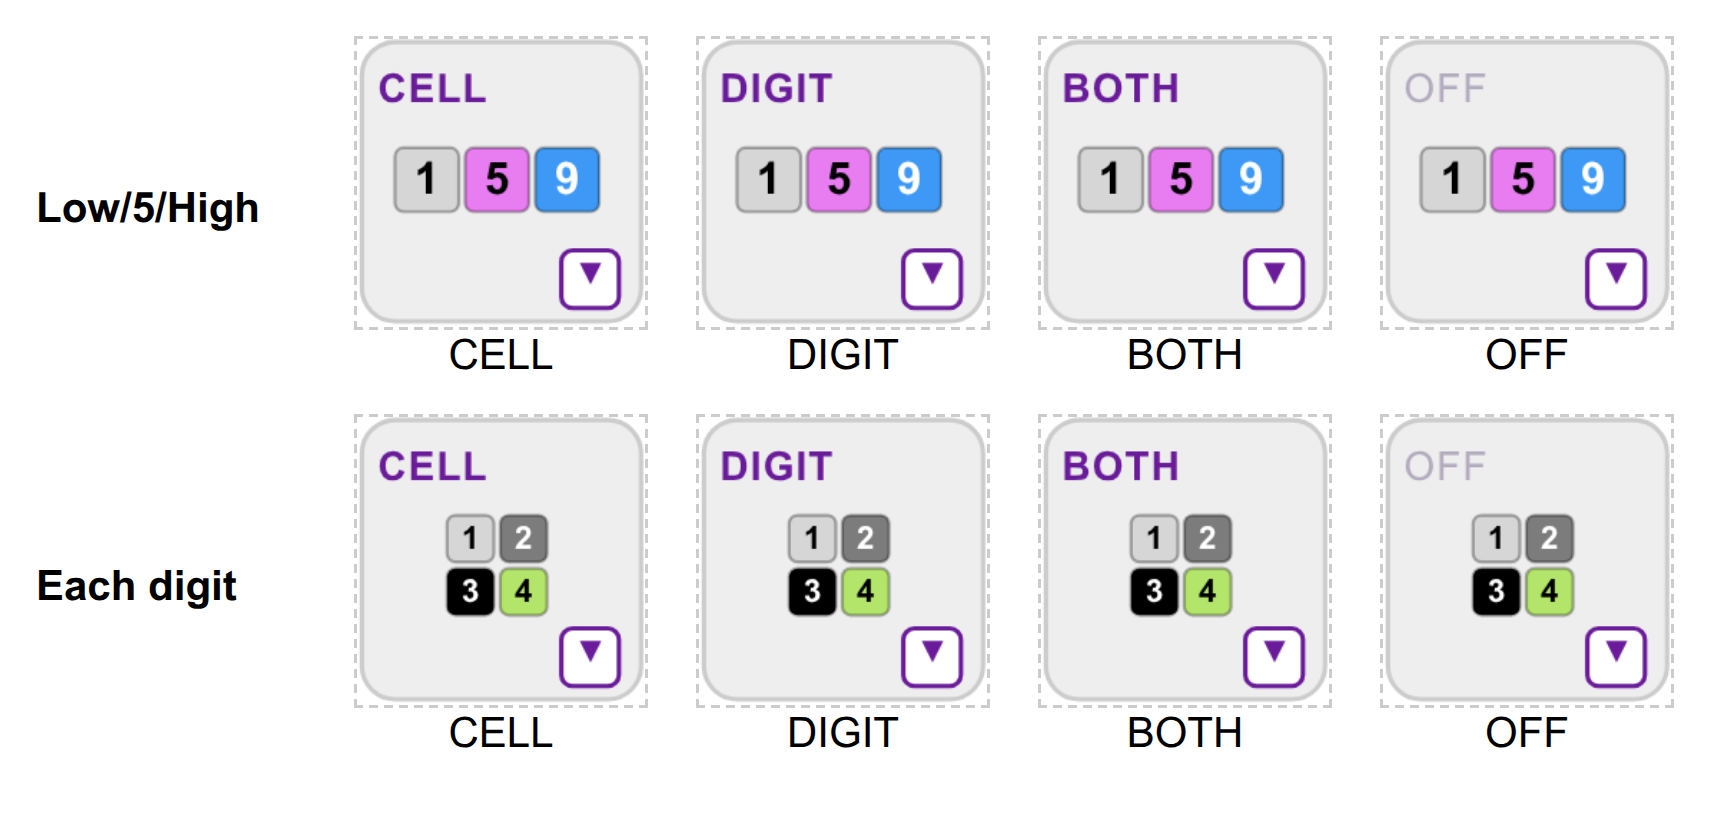
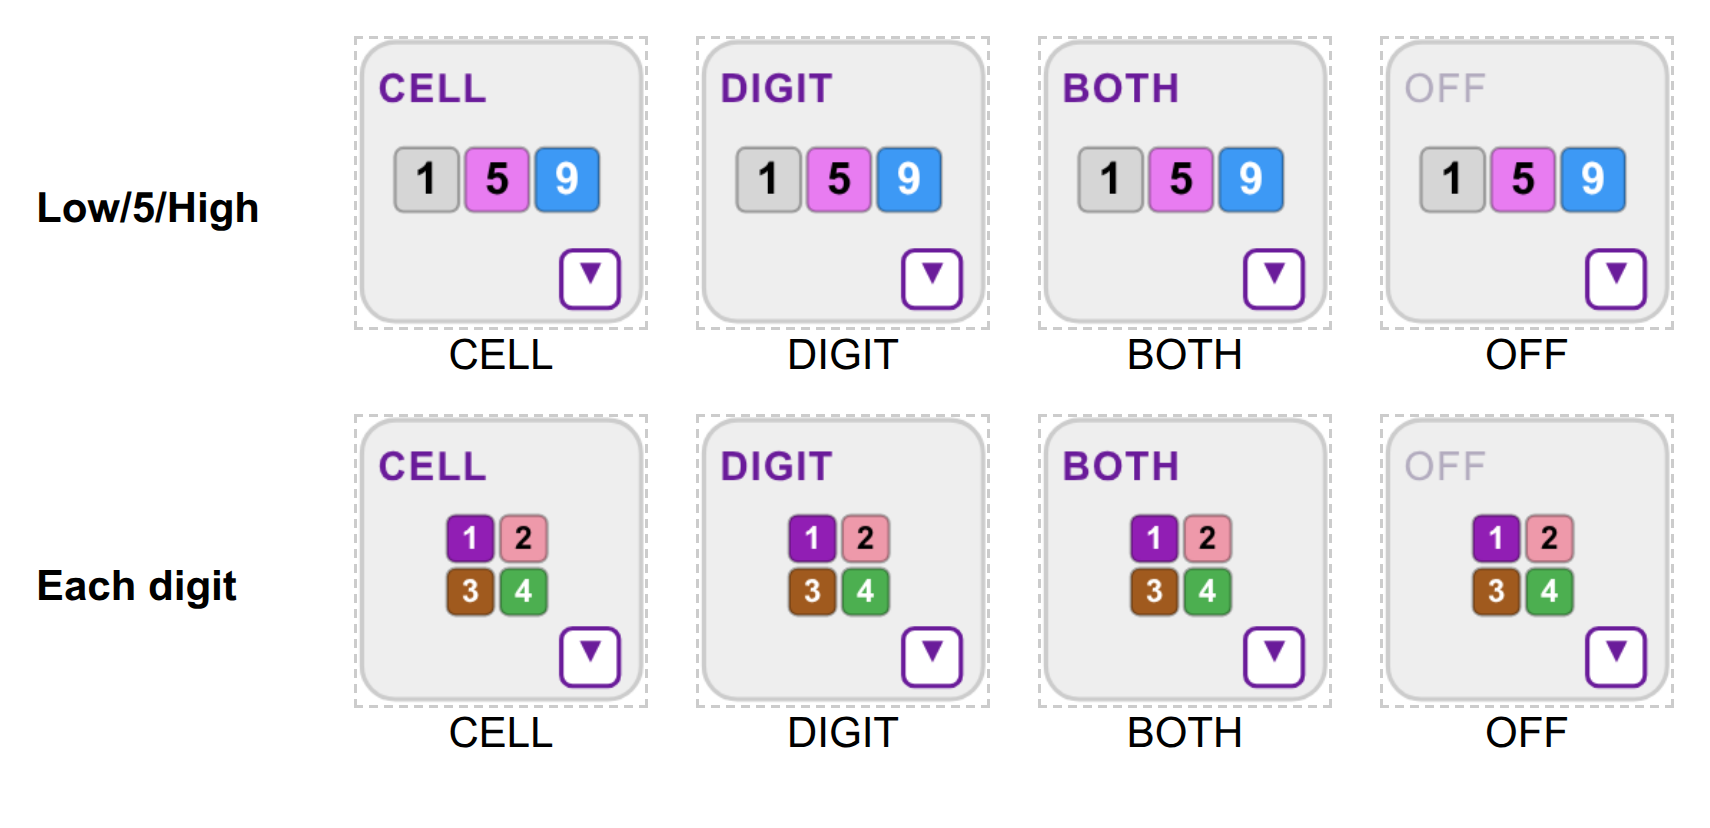
Color by Digit: Each digit on nine colors whose shades are distinct and never black or grey (P2, C2)
Digits 5 to 9 keep their own first-page keys; 1 to 4 move from page 1's
grey, grey, black and yellow-green to j, e, h (page 2) and m (page 3).
An install already offered Each digit keeps the one it has. README,
GLOSSARY, the homepage picture and the mode-label picture follow.

diff --git a/color-by-digit.test.js b/color-by-digit.test.js
@@ -119,9 +119,24 @@ test('Modular maps 1, 4, 7 to key 6, 2, 5, 8 to key 5, 0, 3, 6, 9 to key 8', () 
   assert.equal(byDigit(PRELOADS.Modular), '8658658658')
 })
 
-test('Each digit puts each of 1 to 9 alone in a group on its own palette color, and 0 in no group', () => {
-  assert.deepEqual(PRELOADS['Each digit'], ['1', '2', '3', '4', '5', '6', '7', '8', '9'].map((d) => ({ key: d, digits: [d] })))
+// SudokuPad's default palette (tool-color.css): the colors Each digit's keys show, typed out as the independent source.
+const DEFAULT_PALETTE = { j: 'rgb(145, 30, 180)', e: 'rgb(238, 153, 170)', h: 'rgb(160, 90, 30)', m: 'rgb(76, 175, 80)', 5: 'rgb(232, 124, 241)', 6: 'rgb(228, 150, 50)', 7: 'rgb(245, 58, 55)', 8: 'rgb(252, 235, 63)', 9: 'rgb(61, 153, 245)' }
+
+test('Each digit puts each of 1 to 9 alone in a group, 5 to 9 on their own first-page keys and 1 to 4 on keys of pages 2 and 3, and 0 in no group', () => {
+  assert.deepEqual(PRELOADS['Each digit'], [['1', 'j'], ['2', 'e'], ['3', 'h'], ['4', 'm'], ['5', '5'], ['6', '6'], ['7', '7'], ['8', '8'], ['9', '9']].map(([d, key]) => ({ key, digits: [d] })))
   assert.deepEqual(plan(allDigits, PRELOADS['Each digit']).map((p) => p.index), [1, 2, 3, 4, 5, 6, 7, 8, 9])
+})
+
+test('Each digit\'s nine shades are colors, none black or grey, and no two alike, so an entered digit never looks like a given', () => {
+  const shades = PRELOADS['Each digit'].map((g) => oklch(darkenColor(parseColor(DEFAULT_PALETTE[g.key]))))
+  for (const { L, C } of shades) {
+    assert.ok(L >= 0.35, `lightness ${L}`)
+    assert.ok(C >= 0.09, `chroma ${C}`)
+  }
+  const lab = ({ L, C, h }) => [L, C * Math.cos(h * Math.PI / 180), C * Math.sin(h * Math.PI / 180)]
+  for (let i = 0; i < 9; i++) {
+    for (let j = i + 1; j < 9; j++) assert.ok(Math.hypot(...lab(shades[i]).map((x, k) => x - lab(shades[j])[k])) >= 0.1, `digits ${i + 1} and ${j + 1}`)
+  }
 })
 
 const LOW = PRELOADS['Low/5/High']
@@ -1104,6 +1119,14 @@ test('mode: leaving cell coloring keeps a hand color in no group on a cell that 
       assert.equal(app.puzzle.inGroup, false)
     }, { ColorByDigit_mode: 'both' })
   }
+})
+
+test('Each digit: an install already offered it keeps the Each digit it has, on the first page\'s keys, and gets no second one', async () => {
+  const oldEachDigit = ['1', '2', '3', '4', '5', '6', '7', '8', '9'].map((d) => ({ key: d, digits: [d] }))
+  const saved = { profiles: [{ name: 'Odd/Even', groups: ODD }, { name: 'Each digit', groups: oldEachDigit }], active: 0 }
+  await withScript(mockApp([{}]), async (app) => {
+    assert.deepEqual(app.stored.ColorByDigit_profiles, saved)
+  }, { ColorByDigit_profiles: saved, ColorByDigit_addedPreloads: true, ColorByDigit_addedEachDigit: true })
 })
 
 // A page is ten keys: the key at index K sits on SudokuPad's button K. Each key's color is its own name here.

diff --git a/color-by-digit.user.js b/color-by-digit.user.js
@@ -64,8 +64,10 @@
       { key: '5', digits: ['2', '5', '8'] },
       { key: '8', digits: ['0', '3', '6', '9'] }
     ],
-    // Keys 1 to 9 are the nine colors of SudokuPad's first palette page.
-    'Each digit': ['1', '2', '3', '4', '5', '6', '7', '8', '9'].map((d) => ({ key: d, digits: [d] }))
+    // Nine colors whose darker shades are all distinct and none black or grey, so an entered digit never looks like a
+    // given: 5 to 9 on their own keys of SudokuPad's first palette page, and 1 to 4 (whose first-page keys are grey,
+    // black and a green near 8's yellow) on purple, pink and brown from page 2 and green from page 3.
+    'Each digit': [['1', 'j'], ['2', 'e'], ['3', 'h'], ['4', 'm'], ['5', '5'], ['6', '6'], ['7', '7'], ['8', '8'], ['9', '9']].map(([d, key]) => ({ key, digits: [d] }))
   }
 
   const cloneGroups = (groups) => groups.map((g) => ({ key: g.key, digits: [...g.digits] }))

diff --git a/README.md b/README.md
@@ -32,7 +32,7 @@ Settings live in the browser's own storage, so another browser profile or device
 
 In Cell mode, every cell holding a digit, and every empty cell whose center marks all belong to one group, takes its group's color and keeps it in step as you solve. In Digit mode the digits themselves take it instead, in a darker shade, and Both does both. You set the groups in a settings dialog.
 
-- **Profiles** are named lists of groups, one to six of them, with exactly one active. A fresh install has five preloads: Low/5/High (active), Odd/Even, Entropic (0-3, 4-6, 7-9), Modular (1/4/7, 2/5/8, 0/3/6/9) and Each digit (1 to 9 each on its own color of the first palette page, 0 in no group). An install with saved profiles gets Entropic and Modular added once, and Each digit once, each unless a profile already has the same groups or the six profiles are taken; delete one and it stays deleted. The button's icon shows the active profile: a cell per group color (the first four), each with the group's shown digit: with 0 left out, the lowest if every digit is below 5, the highest if every digit is above 5, else the middle (the lower middle on an even count), so Low/5/High shows 1, 5 and 9. A group of only 0 shows 0. Groups you saved before profiles existed become the active profile: the preload they match, else a new first profile named Custom, with the five preloads beside it.
+- **Profiles** are named lists of groups, one to six of them, with exactly one active. A fresh install has five preloads: Low/5/High (active), Odd/Even, Entropic (0-3, 4-6, 7-9), Modular (1/4/7, 2/5/8, 0/3/6/9) and Each digit (1 to 9 each on its own color, 0 in no group: 5 to 9 on their own keys of the first palette page, and 1 to 4 on purple, pink and brown from the second page and green from the third, so no digit's shade is black or grey like a given). An install with saved profiles gets Entropic and Modular added once, and Each digit once, each unless a profile already has the same groups or the six profiles are taken; delete one and it stays deleted. The button's icon shows the active profile: a cell per group color (the first four), each with the group's shown digit: with 0 left out, the lowest if every digit is below 5, the highest if every digit is above 5, else the middle (the lower middle on an even count), so Low/5/High shows 1, 5 and 9. A group of only 0 shows 0. Groups you saved before profiles existed become the active profile: the preload they match, else a new first profile named Custom, with the five preloads beside it.
 - **The profile menu** opens from the arrow box on the button, a right click on it, or a hold on it. Pick a profile and it becomes active at once (with sync unticked, see below, the menu has a Cells section and a Digits section). In Cell and Both the old profile's group colors come off every cell and every cell that holds one group's digit (or has only that group's center marks) gets its new color, as one undo step; in Digit and Both the digits take their new shades. Edit profiles… opens the settings dialog, where you reorder profiles by dragging the handle, click a row to make it the active one, add one (a copy of the active profile), delete one, and edit its groups, picking each group's digits on a numpad and removing a group with the red × in its box's upper right corner. Save applies every change at once; Cancel drops them.
 - **Sync digit profile with cell profile**, a checkbox in the settings dialog, is ticked on a fresh install and after an update: one active profile colors cells and digits. Untick it and there are two picks from the one list of profiles, a cell profile for Cell and Both and a digit profile for Digit and Both, and the profile menu shows them as two sections, Cells and Digits; a pick in Cells recolors only the cells (one undo step), and a pick in Digits only the digits. Unticking starts the digit profile on the cell profile, so nothing changes until you pick another; ticking it again makes the digits take the cell profile. The button's icon shows the cell profile in Cell, Both and Off, and the digit profile in Digit. Deleting the digit profile makes the digits follow the cell profile again.
 - **Use digit colors**, a checkbox at the top of the settings dialog, is ticked on a fresh install and after an update. Untick it to drop digit coloring altogether: a press steps Cell ↔ Off, the dialog offers only Cell and Off, the sync checkbox and the menu's Digits section hide, and no digit is colored or circled. Unticking in Digit goes to Off, in Both to Cell. Tick it again and the four modes, the sync checkbox and both profile picks come back as they were. Copy settings and Paste settings carry both checkboxes and the digit profile; settings copied before them paste as ticked.

diff --git a/GLOSSARY.md b/GLOSSARY.md
@@ -48,7 +48,8 @@
   in the `conflict` state, in Digit and Both, only while SudokuPad shows conflicts.
 - **preload** — one of the five ready-made profiles a fresh install starts with: Low/5/High, Odd/Even,
   Entropic ({0,1,2,3}, {4,5,6}, {7,8,9}), Modular ({1,4,7}, {2,5,8}, {0,3,6,9}) and Each digit (each of 1 to 9
-  alone, on palette keys 1 to 9, 0 in no group). Entropic and Modular, and then Each digit, are appended once,
+  alone, 0 in no group: 5 to 9 on palette keys 5 to 9, and 1 to 4 on keys j, e, h and m of pages 2 and 3, so no
+  digit color is black or grey). Entropic and Modular, and then Each digit, are appended once,
   on load, to an install that already has profiles, each skipped when a profile with equal groups exists or
   six are taken; a saved flag for each records it, so a deleted one stays deleted. A migrated profile is named after the preload its groups equal.
 - **pen color** — one of the pen tool's nine colors, numbered 1 to 9. It is a
